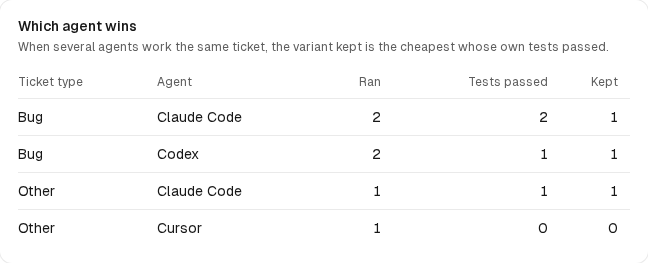
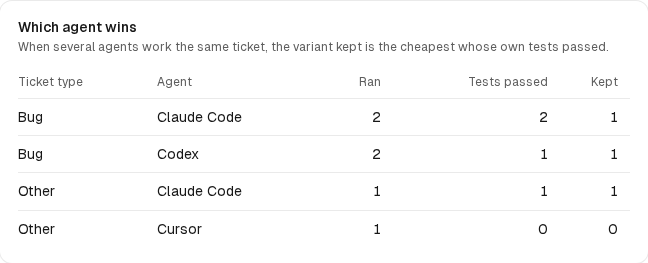
v2 P213: the wins under the agents' cards, the captures again

diff --git a/v2/app/web/screens/consumption/consumption.css b/v2/app/web/screens/consumption/consumption.css
@@ -1,5 +1,5 @@
 /* The Consumption screen (O15), on top of styles/app.css: the agents' cards
-   on the left, the limits, the cost and the levers on the right, one column
+   and the harness pick's wins on the left, the limits, the cost and the levers on the right, one column
    under 1000 px. Same tokens, flat colours. A harness keeps its
    own colour (--harness-*); amber is for what waits for the person, so the
    limit that will be reached is drawn in the danger text colour. */
@@ -13,6 +13,7 @@
 .consumption-period { margin: 0; color: var(--text-muted); font-size: var(--text-md); font-variant-numeric: tabular-nums; white-space: nowrap; }
 
 .consumption-grid { display: grid; grid-template-columns: minmax(0, 1fr) minmax(0, 1.1fr); gap: 16px; align-items: start; }
+.main-col { display: flex; flex-direction: column; gap: 12px; min-width: 0; }
 .harnesses { display: flex; flex-direction: column; gap: 12px; }
 .side { display: flex; flex-direction: column; gap: 12px; }
 
@@ -89,9 +90,8 @@
 .choice:focus-visible { outline: 2px solid var(--ring); outline-offset: 2px; }
 .levers-note { margin: 10px 0 0; color: var(--danger-text); font-size: var(--text-sm); }
 
-/* The harness pick's wins (issue #329), under the grid: a table that
-   scrolls in its own box on a phone rather than the page. */
-.wins { margin-top: 16px; }
+/* The harness pick's wins (issue #329), under the agents' cards: a table
+   that scrolls in its own box on a phone rather than the page. */
 .wins-sub { margin: 2px 0 12px; color: var(--text-muted); font-size: var(--text-sm); text-wrap: pretty; }
 .wins-scroll { overflow-x: auto; }
 .wins-table { width: 100%; border-collapse: collapse; font-size: var(--text-md); }

diff --git a/v2/app/web/screens/consumption/Consumption.tsx b/v2/app/web/screens/consumption/Consumption.tsx
@@ -173,8 +173,11 @@ export function ConsumptionView({ data, t, language, now, busy = false, note = '
         <p className="consumption-period">{periodText(data.days, language)}</p>
       </header>
       <div className="consumption-grid">
-        <div className="harnesses" role="list" aria-label={t('consumption_harnesses_label')}>
-          {data.harnesses.map((h) => <div role="listitem" key={h.harness}><HarnessCard h={h} data={data} t={t} language={language} /></div>)}
+        <div className="main-col">
+          <div className="harnesses" role="list" aria-label={t('consumption_harnesses_label')}>
+            {data.harnesses.map((h) => <div role="listitem" key={h.harness}><HarnessCard h={h} data={data} t={t} language={language} /></div>)}
+          </div>
+          <Wins data={data} t={t} language={language} />
         </div>
         <aside className="side" aria-labelledby="limits-title">
           <section className="panel limits">
@@ -213,7 +216,6 @@ export function ConsumptionView({ data, t, language, now, busy = false, note = '
           </section>
         </aside>
       </div>
-      <Wins data={data} t={t} language={language} />
       <footer className="consumption-foot">
         <p>{measuredAt(data, language, t)}</p>
         <p className="foot-data"><ArrowRight size={12} aria-hidden="true" />{t('consumption_footer_data')}</p>
